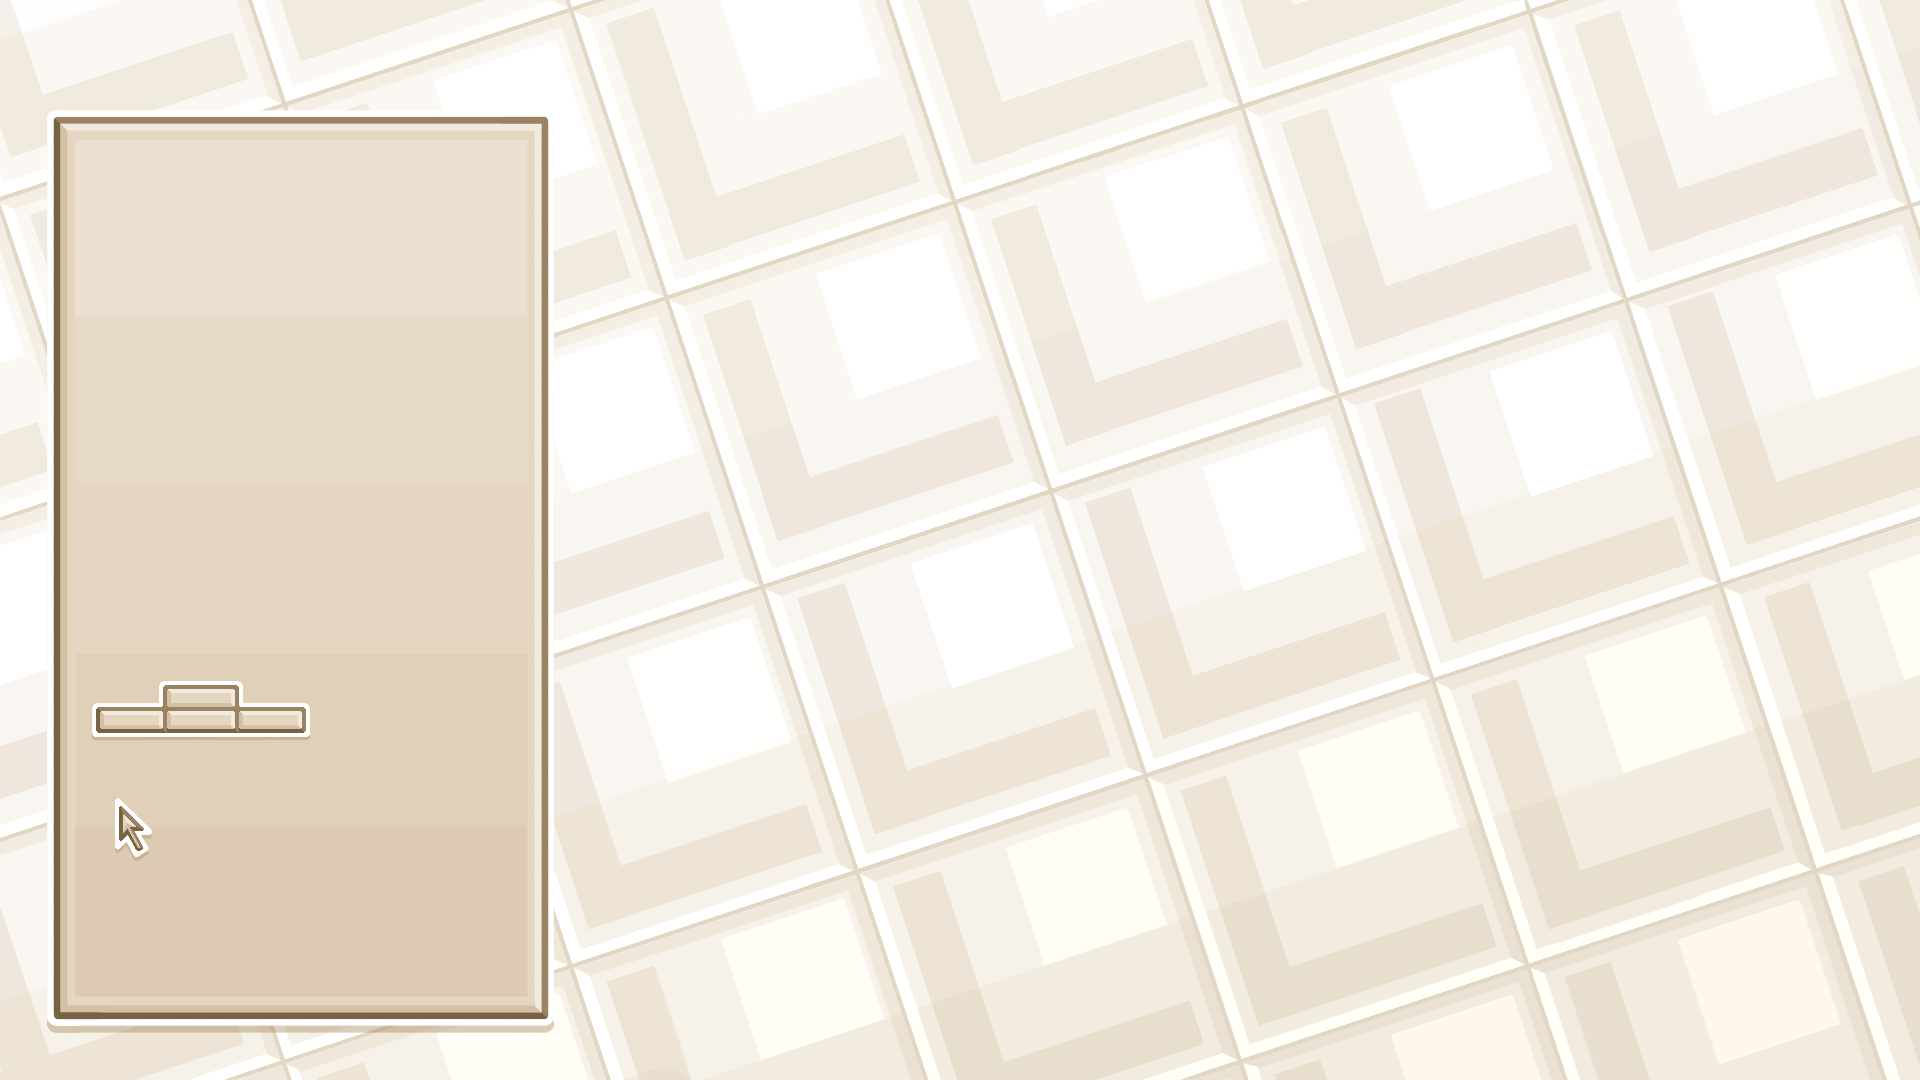
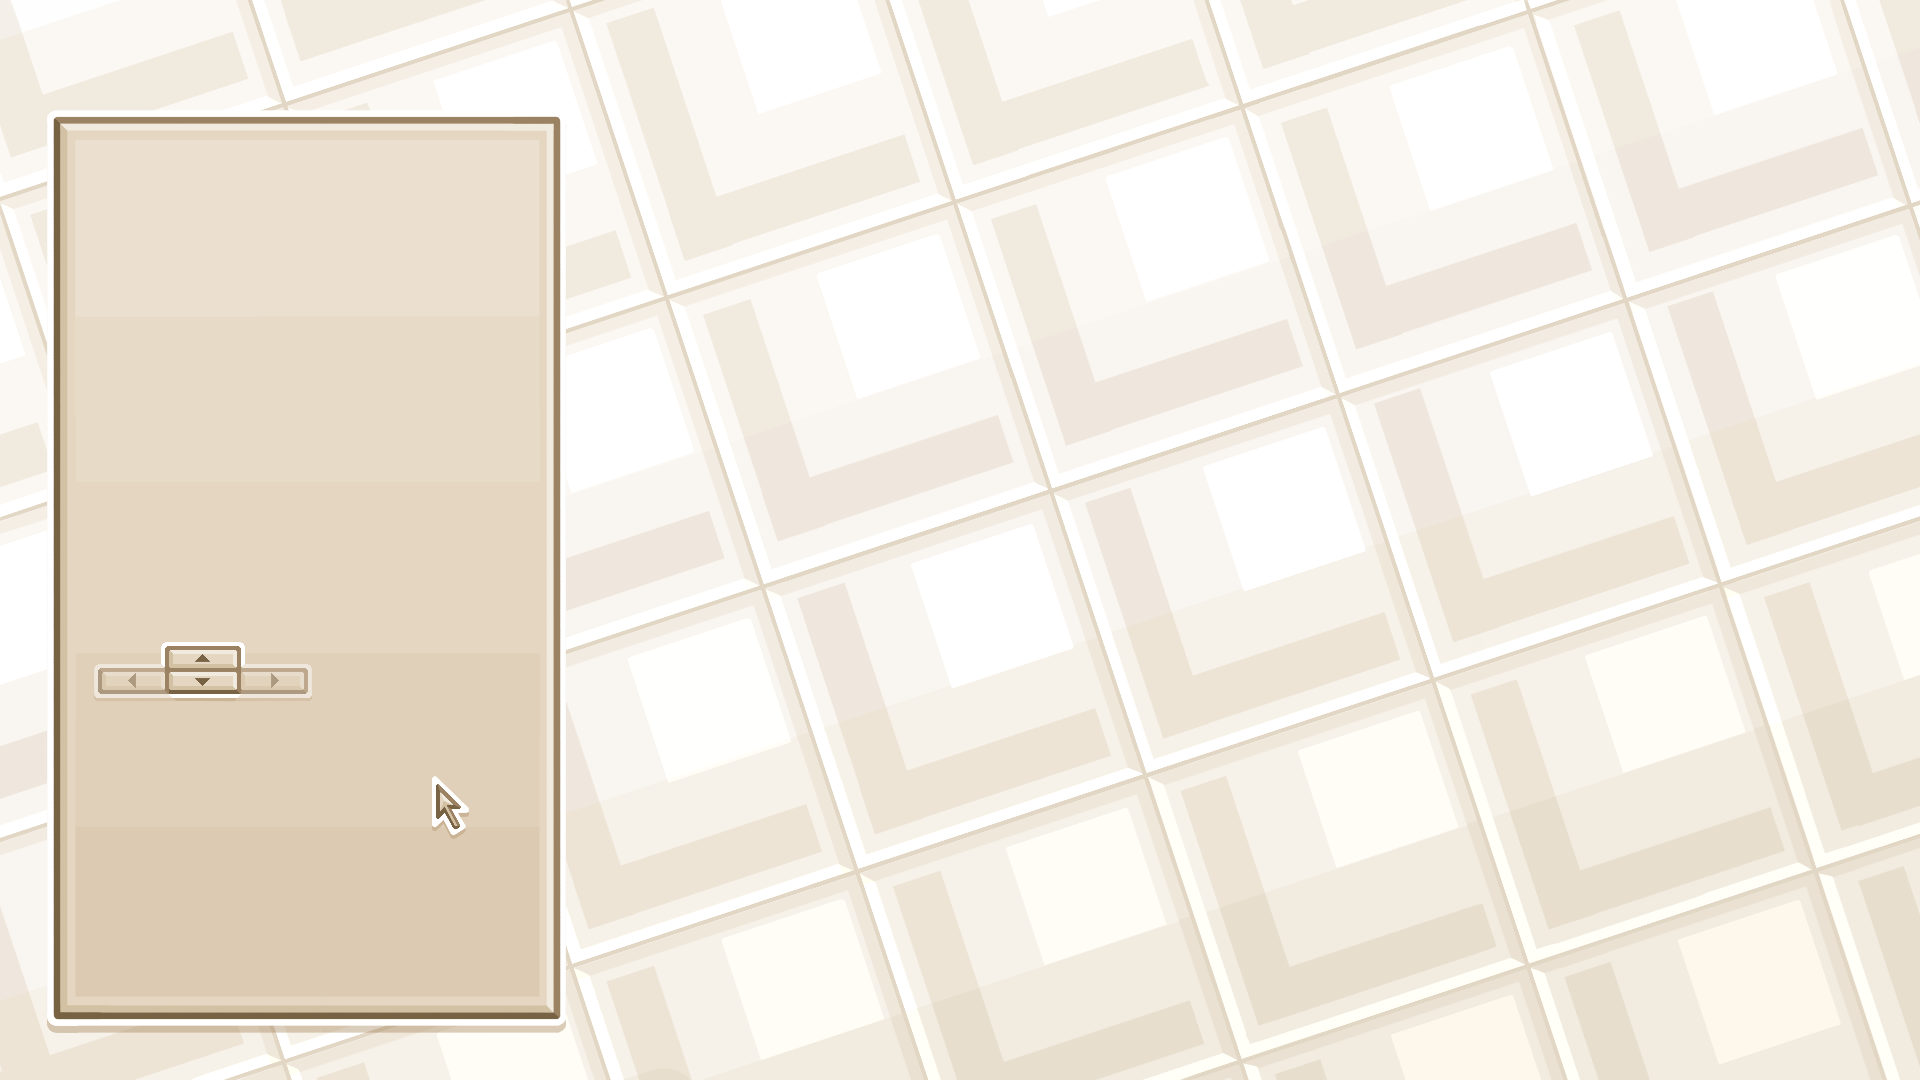
Finished Player Selection Screen

diff --git a/src/main/java/com/example/theos/PlayerSelectionScreen.java b/src/main/java/com/example/theos/PlayerSelectionScreen.java
@@ -92,17 +92,17 @@ public class PlayerSelectionScreen extends Application {
         controls.setFill(brown);
 
         Text row1 = new Text("Clicking on a character" + System.lineSeparator() +
-                "adds a player" + System.lineSeparator());
+                "selects the player" + System.lineSeparator());
         row1.setFont(Font.font(VARELA.getFamily(), 28));
         row1.setFill(brown);
 
-        Text row2 = new Text("Clicking on the X" + System.lineSeparator() +
-                "above the character" + System.lineSeparator() +
-                "removes the player" + System.lineSeparator());
+        Text row2 = new Text("Clicking on a character" + System.lineSeparator() +
+                "after selection deselects" + System.lineSeparator() +
+                "the player" + System.lineSeparator());
         row2.setFont(Font.font(VARELA.getFamily(), 28));
         row2.setFill(brown);
 
-        Text row3 = new Text(" Dice" + System.lineSeparator() +
+        Text row3 = new Text("Dice" + System.lineSeparator() +
                 "select");
         row3.setFont(Font.font(VARELA.getFamily(), 30));
         row3.setFill(brown);
@@ -153,23 +153,23 @@ public class PlayerSelectionScreen extends Application {
         leftSide.setAlignment(Pos.CENTER);
         leftSide.setSpacing(100);
 
-        controls.setTranslateX(-31);
-        controls.setTranslateY(250);
+        controls.setTranslateX(-36);
+        controls.setTranslateY(254);
 
-        row1.setTranslateX(-31);
+        row1.setTranslateX(-43);
         row1.setTranslateY(190);
 
-        row2.setTranslateX(-48);
+        row2.setTranslateX(-36);
         row2.setTranslateY(100);
 
-        row3.setTranslateX(66);
-        row3.setTranslateY(30);
+        row3.setTranslateX(60);
+        row3.setTranslateY(3);
 
-        row4.setTranslateX(16);
-        row4.setTranslateY(-50);
+        row4.setTranslateX(-95);
+        row4.setTranslateY(-65);
 
-        row5.setTranslateX(71);
-        row5.setTranslateY(-115);
+        row5.setTranslateX(65);
+        row5.setTranslateY(-118);
 
         row6.setTranslateX(-107);
         row6.setTranslateY(-378);
@@ -187,7 +187,7 @@ public class PlayerSelectionScreen extends Application {
         charactersGrid = new GridPane();
         charactersGrid.setPadding(new Insets(PADDING_VALUE));
         charactersGrid.setHgap(-3);
-        charactersGrid.setVgap(10);
+        charactersGrid.setVgap(-10);
 
         characters = new Character[NUM_COLUMNS * 2];
         players = new Player[NUM_COLUMNS * 2];
